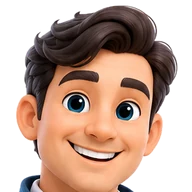
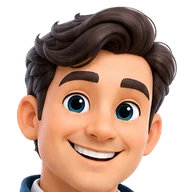
Turma: desenhos dos diretores recortados de novo (sem fiapo branco nos pés); versão 11
Claude-Session: https://claude.ai/code/session_01EXhySP2hNToKFcci3gqCSx

diff --git a/index.html b/index.html
@@ -9,7 +9,7 @@
 <meta http-equiv="Content-Security-Policy" content="default-src 'self'; script-src 'self' https://cdn.jsdelivr.net; style-src 'self'; img-src 'self' data: blob: https://*.supabase.co; connect-src 'self' https://*.supabase.co wss://*.supabase.co https://viacep.com.br https://servicodados.ibge.gov.br https://brasilapi.com.br; object-src 'none'; base-uri 'none'; form-action 'none'">
 <meta name="referrer" content="no-referrer">
 <title>CRM</title>
-<meta name="crm-versao" content="70b661be1d25">
+<meta name="crm-versao" content="3ba0c079b42b">
 <!-- app no celular (21/10/2026): manifest + sw.js; ícones da instalação em assets/app-*.png -->
 <link rel="manifest" href="manifest.webmanifest">
 <meta name="theme-color" content="#175b6d">
@@ -59,7 +59,7 @@
 <div id="impressao" class="impressao"></div>
 <div id="toast" class="toast" role="status" aria-live="polite"></div>
 
-<script src="config.js?v=795adf2ba9"></script>
+<script src="config.js?v=42eb2228c0"></script>
 <script src="regras.js?v=62662d6ce1"></script>
 <script src="cadencia.js?v=8905237dde"></script>
 <script src="dados.js?v=7d3b0f1d9d"></script>

diff --git a/config.js b/config.js
@@ -17,7 +17,7 @@ window.CRM_CONFIG = {
   // (topo, de corpo inteiro, guia do dia e conversa); o especialista de cada tela aparece dentro do painel; o Andi
   // recebe no login. turma.js explica. Trocar um desenho: mesmo nome de arquivo e subir a `versao`.
   turma: {
-    pasta: 'assets/turma/', versao: '10',
+    pasta: 'assets/turma/', versao: '11',
     principal: 'clean', anfitriao: 'andi',
     // 20/10/2026: o Andi agora é a foto do Anderson e só apresenta o sistema (quem ajuda no dia a dia é o Clean)
     boasVindas: 'Olá, seja bem-vindo! É um prazer receber você. Entre com o seu e-mail e a sua senha: você está entrando no mundo da OneClean.',

diff --git a/docs/historico/2026-10.md b/docs/historico/2026-10.md
@@ -2664,3 +2664,5 @@ local, nada no app): fundo branco tirado a partir da borda, a sombra cinza só p
 em 192×192, conferidos sobre fundo azul e amarelo. Aqui entraram no lugar dos personagens (mesmos ids):
 `compras-setor-interno`, `gerente-vendas` (Diretor de Vendas), `logistica` e `financeiro`; `versao` da turma 9 → 10 para os
 navegadores pegarem os novos. Fiscal, RH/DP e CEO foram para o `/ceo` da Agilité.
+- (mesmo dia) Recorte refeito com remoção de fundo por IA (rembg `isnet-general-use`, só na sessão): o recorte por cor
+  deixava um fiapo branco junto aos pés e, nos desenhos novos, comia o tênis branco. `versao` da turma 10 → 11.
